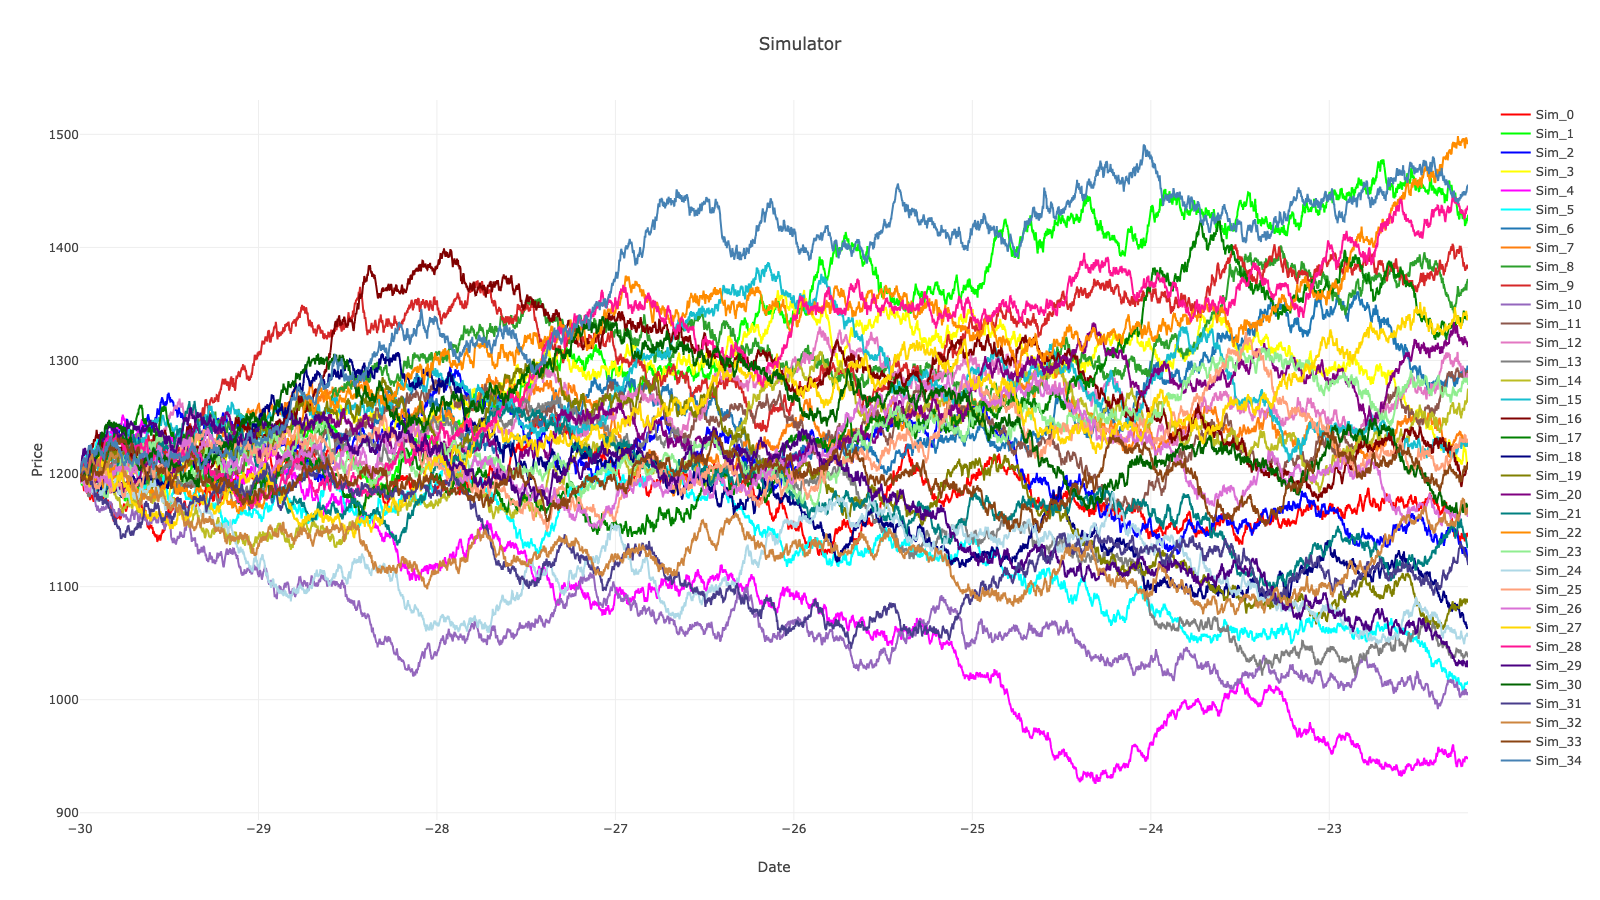
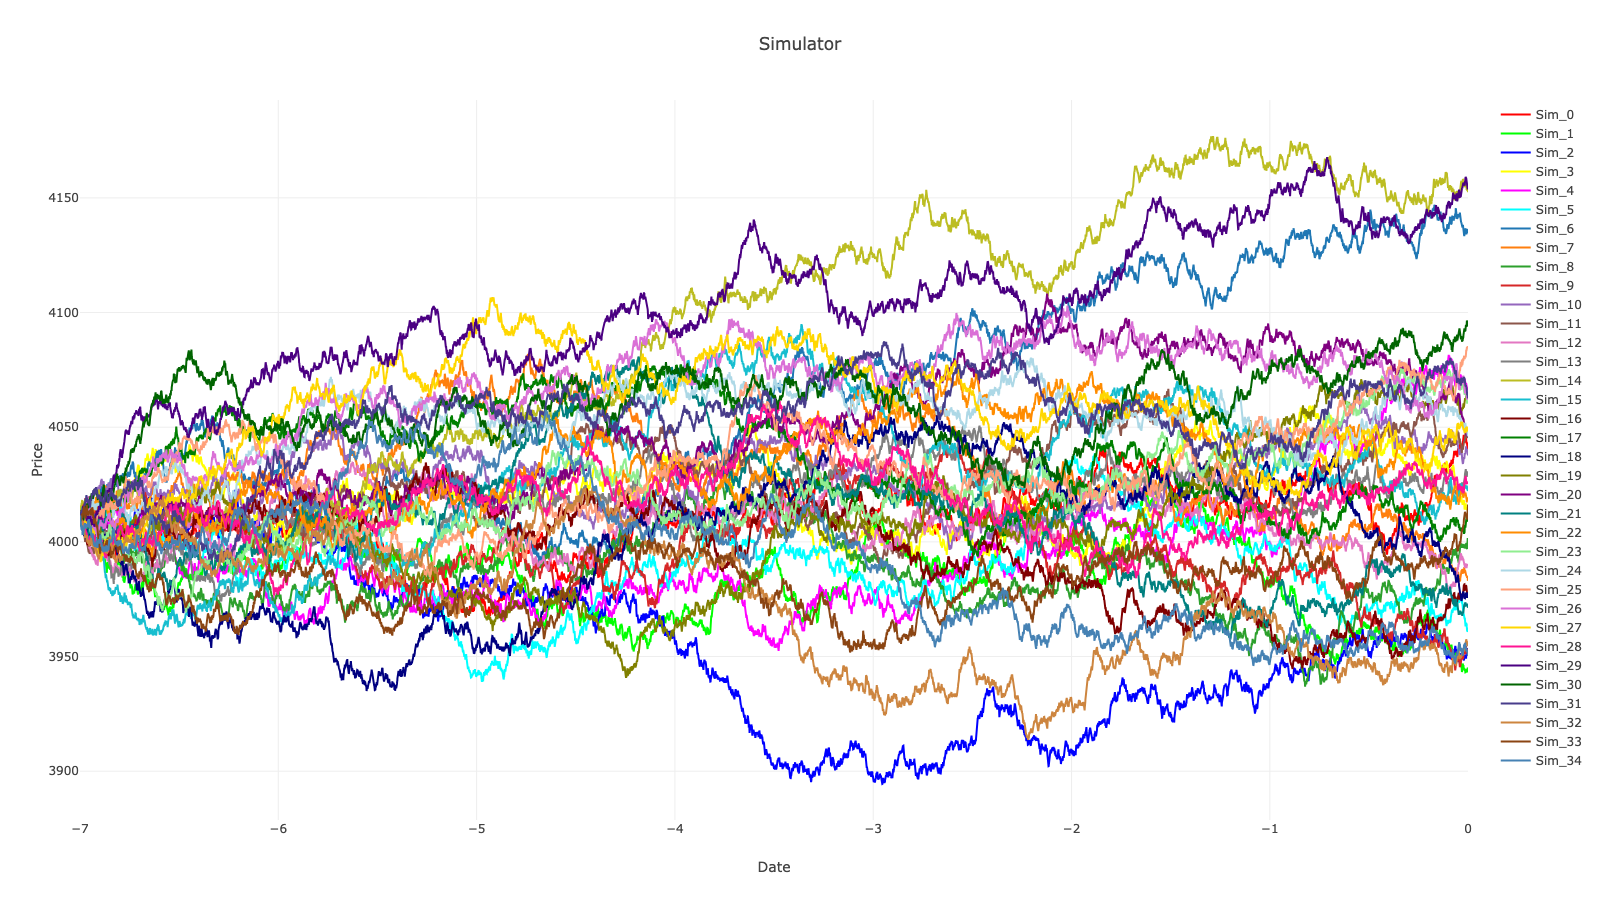
Add `volatility_for_dt` function to de-annualize volatility for simulation timeframes, update chain generation parameters to include expiration dates, and refine simulation results with comprehensive metrics and exit policies. Expand examples and dependencies to support new functionality.

diff --git a/Draws/Visualization/bull_call_spread.html b/Draws/Visualization/bull_call_spread.html
@@ -15,7 +15,7 @@
 <body>
     <div id="plotly-graph"></div>
     <script>
-        var plotJson = {"data":[{"type":"scatter","name":"BullCallSpread Strategy: \n\tUnderlying: AAPL @ $105 Short Call European Option\n\tUnderlying: AAPL @ $95 Long Call European Option","mode":"lines","x":["93.1","94.1"],"y":["0.00","0.00"],"line":{"width":2.0,"color":"#000000"}},{"type":"scatter","name":"Segment 2","mode":"lines","x":["95.1","96.1","97.1","98.1","99.1","100.1","101.1","102.1","103.1","104.1","105.1","106.1","107.1","108.1"],"y":["0.25","2.75","5.25","7.75","10.25","12.75","15.25","17.75","20.25","22.75","25.00","25.00","25.00","25.00"],"line":{"width":2.0,"color":"#2ca02c"}},{"type":"scatter","name":"Break Even","mode":"lines","x":["93.1","108.1"],"y":["0","0"],"line":{"width":1.0,"color":"#000000"}},{"type":"scatter","name":"Current Price","mode":"lines","x":["100","100"],"y":["-1.2500","26.2500"],"line":{"width":1.0,"color":"#0000FF"}},{"type":"scatter","name":"Current P/L: 12.50","mode":"markers","x":["100"],"y":["12.50"],"line":{"width":10.0,"color":"#2ca02c"}},{"type":"scatter","name":"12.50","mode":"text","x":["100"],"y":["26.2500"],"text":["12.50"],"line":{"width":0.0,"color":"#2ca02c"},"textfont":{"size":16,"color":"#2ca02c"}},{"type":"scatter","name":"BE: 95","mode":"text","x":["95"],"y":["25.62500"],"text":["BE: 95"],"line":{"width":0.0,"color":"#000000"},"textfont":{"size":16,"color":"#000000"}}],"layout":{"title":{"text":"BullCallSpread Strategy: \n\tUnderlying: AAPL @ $105 Short Call European Option\n\tUnderlying: AAPL @ $95 Long Call European Option"},"showlegend":false,"width":1600,"height":900,"xaxis":{"title":{"text":"Underlying Price"}},"yaxis":{"title":{"text":"Profit/Loss"}}},"config":{}};
+        var plotJson = {"data":[{"type":"scatter","name":"BullCallSpread Strategy: \n\tUnderlying: AAPL @ $105 Short Call European Option\n\tUnderlying: AAPL @ $95 Long Call European Option","mode":"lines","x":["93.1","94.1"],"y":["0.00","0.00"],"line":{"width":2.0,"color":"#000000"}},{"type":"scatter","name":"Segment 2","mode":"lines","x":["95.1","96.1","97.1","98.1","99.1","100.1","101.1","102.1","103.1","104.1","105.1","106.1","107.1","108.1"],"y":["0.25","2.75","5.25","7.75","10.25","12.75","15.25","17.75","20.25","22.75","25.00","25.00","25.00","25.00"],"line":{"width":2.0,"color":"#2ca02c"}},{"type":"scatter","name":"Break Even","mode":"lines","x":["93.1","108.1"],"y":["0","0"],"line":{"width":1.0,"color":"#000000"}},{"type":"scatter","name":"Current Price","mode":"lines","x":["100","100"],"y":["-1.2500","26.2500"],"line":{"width":1.0,"color":"#0000FF"}},{"type":"scatter","name":"Current P/L: 12.50","mode":"markers","x":["100"],"y":["12.50"],"line":{"width":10.0,"color":"#2ca02c"}},{"type":"scatter","name":"12.50","mode":"text","x":["100"],"y":["26.2500"],"text":["12.50"],"line":{"width":0.0,"color":"#2ca02c"},"textfont":{"size":16,"color":"#2ca02c"}},{"type":"scatter","name":"BE: 95","mode":"text","x":["95"],"y":["25.62500"],"text":["BE: 95"],"line":{"width":0.0,"color":"#000000"},"textfont":{"size":16,"color":"#000000"}}],"layout":{"title":{"text":"BullCallSpread Strategy: \n\tUnderlying: AAPL @ $105 Short Call European Option\n\tUnderlying: AAPL @ $95 Long Call European Option"},"showlegend":false,"width":1600,"height":900,"xaxis":{"title":{"text":"Underlying Price"}},"yaxis":{"title":{"text":"Profit/Loss"}}},"config":{},"frames":null};
         Plotly.newPlot('plotly-graph', plotJson);
     </script>
 </body>

diff --git a/src/volatility/utils.rs b/src/volatility/utils.rs
@@ -406,6 +406,70 @@ pub fn adjust_volatility(
     Ok(volatility * scale_factor)
 }
 
+/// Adjusts annualized volatility for use in random walk simulations with a specific dt.
+///
+/// This function converts an annualized volatility to the appropriate volatility for the
+/// base timeframe used in the simulation. The random walk implementation will then scale
+/// this by sqrt(dt) internally, so this function only performs the de-annualization step.
+///
+/// **Important**: The random walk implementations (Brownian, GeometricBrownian, etc.) already
+/// multiply the volatility by `sqrt(dt)` internally, so this function should NOT do that scaling.
+/// It only converts from annual volatility to the base timeframe volatility.
+///
+/// # Arguments
+///
+/// * `annual_volatility` - The annualized volatility (e.g., 0.20 for 20% annual volatility)
+/// * `_dt` - The time step size (unused, kept for API compatibility)
+/// * `_dt_timeframe` - The timeframe that dt represents (unused, kept for API compatibility)
+/// * `dt_base_timeframe` - The base timeframe for the simulation (e.g., `TimeFrame::Day`)
+///
+/// # Returns
+///
+/// The de-annualized volatility for the base timeframe as `Positive`
+///
+/// # Formula
+///
+/// The adjustment follows:
+/// ```text
+/// volatility_base = annual_volatility / sqrt(periods_per_year)
+/// ```
+///
+/// The random walk will then apply: `volatility_base * sqrt(dt)` internally.
+///
+/// # Examples
+///
+/// ```
+/// use optionstratlib::pos;
+/// use optionstratlib::utils::time::{TimeFrame, convert_time_frame};
+/// use optionstratlib::volatility::volatility_for_dt;
+///
+/// let annual_vol = pos!(0.20); // 20% annual volatility
+/// let days = pos!(7.0);
+/// let dt = convert_time_frame(pos!(1.0) / days, &TimeFrame::Minute, &TimeFrame::Day);
+///
+/// // Get volatility for daily timeframe (random walk will scale by sqrt(dt))
+/// let vol_for_walk = volatility_for_dt(
+///     annual_vol,
+///     dt,
+///     TimeFrame::Minute,
+///     TimeFrame::Day
+/// ).unwrap();
+/// ```
+///
+/// # Errors
+///
+/// Returns an error if the de-annualization fails
+pub fn volatility_for_dt(
+    annual_volatility: Positive,
+    _dt: Positive,
+    _dt_timeframe: TimeFrame,
+    dt_base_timeframe: TimeFrame,
+) -> Result<Positive, Box<dyn Error>> {
+    // Only de-annualize to the base timeframe
+    // The random walk implementation will multiply by sqrt(dt) internally
+    de_annualized_volatility(annual_volatility, dt_base_timeframe)
+}
+
 /// Generates a mean-reverting Ornstein-Uhlenbeck process time series
 ///
 /// This function simulates a discrete-time Ornstein-Uhlenbeck stochastic process, which is

diff --git a/src/chains/generators.rs b/src/chains/generators.rs
@@ -9,7 +9,7 @@ use crate::simulation::{WalkParams, WalkType};
 use crate::utils::TimeFrame;
 use crate::utils::others::calculate_log_returns;
 use crate::volatility::{adjust_volatility, constant_volatility};
-use crate::{Positive, pos};
+use crate::{ExpirationDate, Positive, pos};
 use core::option::Option;
 use rust_decimal::Decimal;
 use std::error::Error;
@@ -36,6 +36,7 @@ fn create_chain_from_step(
     previous_y_step: &Ystep<OptionChain>,
     new_price: Option<Box<Positive>>,
     volatility: Option<Positive>,
+    expiration_date: Option<ExpirationDate>,
 ) -> Result<OptionChain, Box<dyn Error>> {
     let chain = previous_y_step.value();
     let mut chain_params = chain.to_build_params()?;
@@ -43,8 +44,12 @@ fn create_chain_from_step(
     if let Some(volatility) = volatility {
         chain_params.set_implied_volatility(volatility);
     }
+    if let Some(exp_date) = expiration_date {
+        chain_params.price_params.expiration_date = Some(exp_date);
+    }
 
-    let new_chain = OptionChain::build_chain(&chain_params);
+    let mut new_chain = OptionChain::build_chain(&chain_params);
+    new_chain.update_greeks();
     Ok(new_chain)
 }
 
@@ -144,9 +149,15 @@ pub fn generator_optionchain(
             Ok(x_step) => x_step,
             Err(_) => break,
         };
-        // convert y_step to OptionChain
-        let y_step_chain: OptionChain =
-            create_chain_from_step(&previous_y_step, Some(Box::new(*y_step)), volatility).unwrap();
+        // convert y_step to OptionChain with updated expiration date
+        let expiration_date = *previous_x_step.datetime();
+        let y_step_chain: OptionChain = create_chain_from_step(
+            &previous_y_step,
+            Some(Box::new(*y_step)),
+            volatility,
+            Some(expiration_date),
+        )
+        .unwrap();
         previous_y_step = previous_y_step.next(y_step_chain).clone();
         let step = Step {
             x: previous_x_step,
@@ -242,7 +253,7 @@ mod tests {
             y: Ystep::new(0, initial_price),
         };
 
-        let result = create_chain_from_step(&step.y, Some(Box::new(new_price)), None);
+        let result = create_chain_from_step(&step.y, Some(Box::new(new_price)), None, None);
         assert!(result.is_ok());
 
         let new_chain = result.unwrap();

diff --git a/examples/examples_simulation/src/bin/simulator.rs b/examples/examples_simulation/src/bin/simulator.rs
@@ -1,4 +1,5 @@
 use optionstratlib::chains::generator_positive;
+use optionstratlib::prelude::volatility_for_dt;
 use optionstratlib::simulation::simulator::Simulator;
 use optionstratlib::simulation::steps::{Step, Xstep, Ystep};
 use optionstratlib::simulation::{WalkParams, WalkType, WalkTypeAble};
@@ -23,11 +24,13 @@ fn main() -> Result<(), Box<dyn std::error::Error>> {
     setup_logger();
     let simulator_size: usize = 35;
     // let n_steps = 43_200; // 30 days in minutes
-    let n_steps = 11200;
-    let initial_price = pos!(1200.0);
-    let iv = pos!(0.20);
+    let n_steps = 10080;
+    let initial_price = pos!(4011.0);
+    let iv = pos!(0.27);
     let walker = Box::new(Walker::new());
-    let days = pos!(30.0);
+    let days = pos!(7.0);
+    let dt = convert_time_frame(pos!(1.0) / days, &TimeFrame::Minute, &TimeFrame::Day);
+    let volatility_dt = volatility_for_dt(iv, dt, TimeFrame::Minute, TimeFrame::Day)?;
 
     let walk_params = WalkParams {
         size: n_steps,
@@ -35,10 +38,10 @@ fn main() -> Result<(), Box<dyn std::error::Error>> {
             x: Xstep::new(Positive::ONE, TimeFrame::Minute, ExpirationDate::Days(days)),
             y: Ystep::new(0, initial_price),
         },
-        walk_type: WalkType::GeometricBrownian {
-            dt: convert_time_frame(pos!(1.0) / days, &TimeFrame::Minute, &TimeFrame::Day),
+        walk_type: WalkType::Brownian {
+            dt,
             drift: dec!(0.0),
-            volatility: iv,
+            volatility: volatility_dt,
         },
         walker,
     };
@@ -51,11 +54,11 @@ fn main() -> Result<(), Box<dyn std::error::Error>> {
     );
     debug!("Simulator: {}", simulator);
 
-    let last_steps: Vec<&Step<Positive, Positive>> = simulator
-        .into_iter()
-        .map(|step| step.last().unwrap())
-        .collect();
-    info!("Last Steps: {:?}", last_steps);
+    // let last_steps: Vec<&Step<Positive, Positive>> = simulator
+    //     .into_iter()
+    //     .map(|step| step.last().unwrap())
+    //     .collect();
+    // info!("Last Steps: {:?}", last_steps);
 
     let last_values: Vec<&Positive> = simulator
         .into_iter()

diff --git a/src/backtesting/results.rs b/src/backtesting/results.rs
@@ -15,6 +15,8 @@ use chrono::{DateTime, Utc};
 use rust_decimal::Decimal;
 use serde::{Deserialize, Serialize};
 use std::collections::HashMap;
+use pretty_simple_display::{DebugPretty, DisplaySimple};
+use crate::simulation::ExitPolicy;
 
 /// Comprehensive container for all results generated during a backtest simulation.
 ///
@@ -70,18 +72,45 @@ pub struct BacktestResult {
     pub custom_metrics: HashMap<String, Decimal>,
 }
 
-/// Results from running Monte Carlo simulation on the strategy
-#[derive(Debug, Clone, Serialize, Deserialize, Default)]
+
+#[derive(DebugPretty, DisplaySimple, Clone, Serialize, Deserialize, Default)]
 pub struct SimulationResult {
     /// Number of simulation runs
     pub simulation_count: usize,
 
     /// Risk metrics calculated from simulations
-    pub risk_metrics: RiskMetricsSimulation,
+    pub risk_metrics: Option<RiskMetricsSimulation>,
 
     /// Percentiles of final equity distribution
     pub final_equity_percentiles: HashMap<u8, Decimal>,
-
-    /// Sample paths from simulation
-    pub sample_paths: Option<Vec<Vec<Decimal>>>,
+    
+    /// Maximum premium value during the simulation
+    pub max_premium: Decimal,
+    
+    /// Minimum premium value during the simulation
+    pub min_premium: Decimal,
+    
+    /// Average premium value during the simulation
+    pub avg_premium: Decimal,
+    
+    /// Whether the take profit target was hit (50% premium reduction)
+    pub hit_take_profit: bool,
+    
+    /// Whether the stop loss was hit (100% premium increase)
+    pub hit_stop_loss: bool,
+    
+    /// Whether the option expired without hitting take profit or stop loss
+    pub expired: bool,
+    
+    /// Final premium value at expiration (only if expired)
+    pub expiration_premium: Option<Decimal>,
+    
+    /// Final P&L
+    pub pnl: Decimal,
+    
+    /// Holding period in steps
+    pub holding_period: usize,
+    
+    /// Exit policy that triggered the exit
+    pub exit_reason: ExitPolicy,
 }

diff --git a/examples/examples_simulation/src/bin/random_walk_build_chain.rs b/examples/examples_simulation/src/bin/random_walk_build_chain.rs
@@ -15,20 +15,20 @@ impl WalkTypeAble<Positive, OptionChain> for Walker {}
 
 fn main() -> Result<(), Box<dyn std::error::Error>> {
     // let n_steps = 43_200; // 30 days in minutes
-    let n_steps = 5; // 30 days in minutes
-    let underlying_price = pos!(150.0);
-    let days = pos!(30.0);
-    let std_dev = pos!(20.0);
+    let n_steps = 10080; // 30 days in minutes
+    let underlying_price = pos!(4011.95);
+    let days = pos!(7.0);
+    let std_dev = pos!(2.0);
     let implied_volatility = std_dev / 100.0;
-    let risk_free_rate = dec!(0.02);
-    let dividend_yield = pos!(0.01);
-    let symbol = "AAPL".to_string();
+    let risk_free_rate = dec!(0.0);
+    let dividend_yield = pos!(0.0);
+    let symbol = "GOLF".to_string();
     let volume = Some(Positive::ONE);
     let chain_size = 30;
-    let strike_interval = None;
+    let strike_interval = spos!(10.0);
     let skew_slope = dec!(-0.3);
     let smile_curve = dec!(0.1);
-    let spread = pos!(0.01);
+    let spread = pos!(2.0);
     let decimal_places = 2;
 
     let price_params = OptionDataPriceParams::new(

diff --git a/src/simulation/mod.rs b/src/simulation/mod.rs
@@ -116,6 +116,22 @@ mod traits;
 /// They encapsulate all the necessary inputs while ensuring proper validation.
 mod params;
 
+/// Module containing exit policy definitions for option trading strategies.
+///
+/// This module defines various exit conditions and policies that can be used
+/// to determine when to close an option position during simulations or live trading.
+/// Exit policies include percentage-based targets, fixed prices, time-based exits,
+/// and composite conditions using AND/OR logic.
+///
+/// # Usage
+///
+/// Exit policies are used in simulations to automatically close positions when
+/// specific conditions are met, enabling systematic strategy testing and risk management.
+pub mod exit;
+mod stats;
+
+pub use exit::{check_exit_policy, ExitPolicy};
 pub use model::WalkType;
 pub use params::WalkParams;
+pub use stats::SimulationStats;
 pub use traits::WalkTypeAble;

diff --git a/src/volatility/mod.rs b/src/volatility/mod.rs
@@ -172,7 +172,7 @@ pub use utils::{
     adjust_volatility, annualized_volatility, calculate_iv, constant_volatility,
     de_annualized_volatility, ewma_volatility, garch_volatility, generate_ou_process,
     historical_volatility, implied_volatility, simulate_heston_volatility,
-    uncertain_volatility_bounds,
+    uncertain_volatility_bounds, volatility_for_dt,
 };
 
 pub use traits::{AtmIvProvider, VolatilitySmile};

diff --git a/examples/examples_chain/src/bin/option_chain_build_synthetic.rs b/examples/examples_chain/src/bin/option_chain_build_synthetic.rs
@@ -16,7 +16,7 @@ fn main() -> Result<(), Box<dyn std::error::Error>> {
     info!("Chain params: {}", chain_params);
     let mut option_chain = OptionChain::build_chain(&chain_params);
     option_chain.update_greeks();
-    // info!("{}", option_chain);
+    info!("{}", option_chain);
     option_chain.show();
     let curve = option_chain.curve(&BasicAxisTypes::Volatility, &OptionStyle::Call, &Side::Long)?;
 
